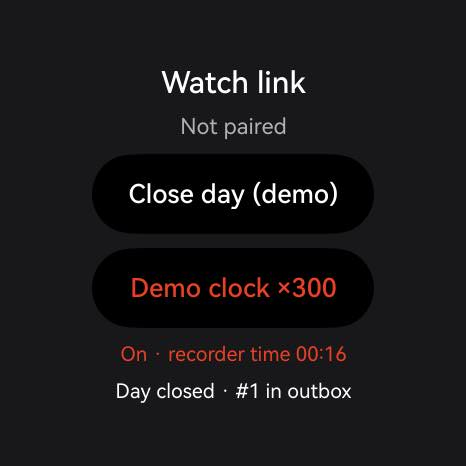
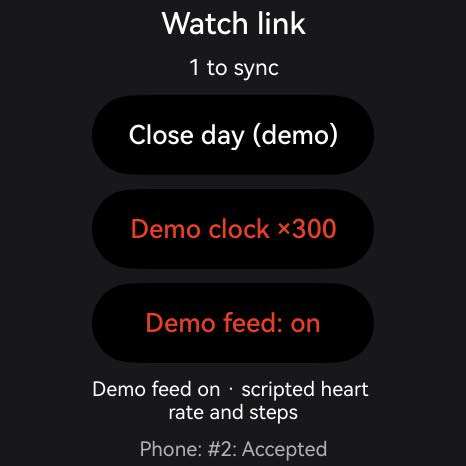
Watch Link: demo-feed run watch to phone on the common base, new screenshots, tour record
The tour branch now sits on feature/engine-reports 7213345 (fast-forward).
Four demo-feed days with the scripted 3 h break went watch -> relay -> phone,
with --tamper and --drop, and the tour checks ran on them. The watchlink
screenshots that read 'Worn 0 h 00 min' are replaced; tour-01..04 are new.
docs/WATCH_LINK.md: demo script with the feed, the run, stale ACK files after
Forget watch as a known limitation. No code change.

diff --git a/docs/WATCH_LINK.md b/docs/WATCH_LINK.md
@@ -175,11 +175,13 @@ The phone app reads its inbox when it comes to the foreground, every 2 s while i
 5. `Close day (demo)` again, relay with `--tamper` → phone log: `Invalid signature`, day not taken in. Relay again → `Accepted`.
 6. Close two more days, relay with `--drop 3` → phone: `1 day missing`, `#3 · not received`. Relay again → the gap is filled.
 
+**With the demo feed (no Virtual sensor panel).** Steps 2 to 4 become: watch, second page: `Demo clock ×300`, then `Demo feed: off` → `on`. The dial reads `DEMO ×300 · FEED · hh:mm`, heart rate and steps are scripted, and from 12:00 to 15:00 of recorder time (36 s) the ring turns red, `not on wrist`. The watch closes the day by itself at midnight of recorder time, 4 min 48 s after the previous one: `1 to sync` → relay → the phone shows the day with worn, charging and off-wrist time, steps and `Off wrist 12:05–15:00`. `Demo clock ×300` again stops the feed. Start from a fresh pair (see "Known limitations", stale ACK files) so the list holds feed days only.
+
 Line for the jury: "The watch measures, the phone judges with the same open rules, the insurer sees only a signed tier. Every day is signed on the wrist and chained, so a day can't be quietly deleted or edited."
 
 ## Checked on the emulators (2026-10-04, agent-run, not yet confirmed by a team member)
 
-Wearable emulator 127.0.0.1:5555 and phone emulator 127.0.0.1:5557, API 24, unsigned debug HAPs. Taps were sent with `uitest uiInput`.
+Wearable emulator 127.0.0.1:5555 and phone emulator 127.0.0.1:5557, API 24, unsigned debug HAPs. Taps were sent with `uitest uiInput`. The `watchlink-NN` files named below were re-shot in the demo-feed run described in the next section; the values in this list are those of the first run.
 
 - Watch: key `source=HUKS`; sensor ids without WEAR_DETECTION (280), so `HR_SIGNAL`; heart-rate events arrive with value 0, so the state is `not on wrist`.
 - Watch: `Demo clock ×300` → the ring fills (red, because the emulator's heart rate is 0), label `DEMO ×300 · hh:mm` (`watchlink-03`).
@@ -191,7 +193,34 @@ Wearable emulator 127.0.0.1:5555 and phone emulator 127.0.0.1:5557, API 24, unsi
 
 Not run on the emulators: a non-zero heart rate (worn, green ring, the 60 s limit with the real clock), a denied permission with the new dial, `Reset watch data`, `Forget watch`, an app restart of either side, a real midnight.
 
+## Checked on the emulators with the demo feed (2026-10-04 03:35–04:00 CEDT, agent-run, not yet confirmed by a team member)
+
+Same two emulators, unsigned debug HAPs built in the `feature/watch-link-tour` worktree: watch from `b9ce4b2`; phone from `b9ce4b2` for pairing (`watchlink-05`, `-07`) and from `7213345` (the engine build) from `watchlink-11` on. `watchlink-08` was taken while another session was installing its own engine build on the shared phone emulator, so its build is one of the two; the Watch link code is the same in all of them. Taps with `uitest uiInput`, values read from the layout dump and from the packets in the watch outbox.
+
+- Fresh start: `Forget watch` on the phone, `Reset watch data` on the watch, `Pair phone` → relay → `Pair watch fd7c02b2?` (`watchlink-07`) → `Confirm` → relay → `#0 ACCEPTED (Paired)` (`watchlink-05`, `watchlink-09`).
+- Watch: `Demo clock ×300` and `Demo feed: on` (`watchlink-02`, `watchlink-03`); dial `worn` with a scripted heart rate (`watchlink-01`), `not on wrist` during the scripted break (`watchlink-15`), the ring with the red break stretch during the workout hour (`watchlink-16`).
+- The watch sealed four days by itself, one every 4 min 48 s, without `Close day (demo)`: `1 to sync` (`watchlink-13`, `watchlink-04`), after the relay `Synced ✓` (`watchlink-10`). Every packet has `clock = DEMO_X300_FEED` and one break; packets 3 and 4 are 877 and 876 bytes.
+
+| day       | seq | worn        | charging   | off wrist  | not observed | steps  | break       | heart-rate slots in the 24 h before |
+| --------- | --- | ----------- | ---------- | ---------- | ------------ | ------ | ----------- | ----------------------------------- |
+| Sun 4 Oct | 1   | 10 h 25 min | 1 h 5 min  | 2 h 45 min | 9 h 45 min   | 7,626  | 12:10–14:55 | 27                                  |
+| Mon 5 Oct | 2   | 14 h 30 min | 6 h 35 min | 2 h 55 min | 0            | 12,068 | 12:05–15:00 | 171                                 |
+| Tue 6 Oct | 3   | 14 h 40 min | 6 h 30 min | 2 h 50 min | 0            | 12,138 | 12:10–15:00 | 171                                 |
+| Wed 7 Oct | 4   | 14 h 35 min | 6 h 30 min | 2 h 55 min | 0            | 12,119 | 12:05–15:00 | 172                                 |
+
+- The first day starts at 09:45 because the recorder started then; the hours before are `not observed`. The scripted break is 12:00–15:00 (3 h); the watch records it as 2 h 45 min to 2 h 55 min, because the wear rule waits for the last heart rate to go stale and a slot takes its majority state. `WatchLinkFeed.test.ets` allows exactly this range.
+- Phone, Evidence tab: day 1 `1 day verified` with worn, charging and off-wrist time, steps and `Off wrist 12:10–14:55` (`watchlink-08`); the full day 2 (`watchlink-17`).
+- `--tamper` on packet 2 → `#2 REJECTED (Invalid signature)`, sync log `#2 · Invalid signature`, still one day (`watchlink-11`); a clean run → `#2 ACCEPTED`.
+- `--drop 3` with packets 3 and 4 waiting → `#4 ACCEPTED (Accepted · Missing 1 day(s))`, `3 of 4 days verified`, `1 day never reached this phone`, a dashed `Missing` ring between Mon and Wed (`watchlink-12`); a clean run → `#3 ACCEPTED`, `All 4 days verified` (`watchlink-14`, `watchlink-18`).
+- Tour (`How Watch Link works` on the Watch link card): step 1 draws the slot timeline of the newest received day, `Wed 7 Oct · wear source: heart-rate signal`, with the demo-feed label (`tour-01`); `Show the code` opens the code panel (`tour-02`). The three checks ran on the received days (`tour-03`): `Change five minutes of one day` → `Invalid signature · Not taken in`; `Send the same day again` → `Duplicate day · Acknowledged again, counted once`; `Hold a day back` → `Accepted · Missing 1 day(s)`, then `Accepted · Fills the gap`; each reported 2 ms and `Your stored days were not changed`. After the checks the card still read `All 4 days verified` and `watchlink/days/` still held `1.json` to `4.json`. The last two cards are in `tour-04`.
+
+Not run: the tour in dark mode, the tour with no day received, the code panels of steps 2 to 6, `watchlink-06` (unchanged, the screen is the one in `watchlink-09`), Wear Engine on paired devices, a real heart rate.
+
+Seen during the run, not changed: on the watch's second page the title and the `Phone: #N` line sit at y = 24 and y = 449 of 466 when the demo feed is on, which a round screen cuts (`watchlink-04`).
+
 ## Known limitations
+
+- **`Forget watch` leaves the old ACK files.** `PhoneLinkEngine.forget()` clears the ledger, the days and the log, but not `acks/<seq>.json`. With the dev relay those files are carried to the watch on the next run: a watch that was reset and paired again then marks itself paired before the phone confirmed and shows `Phone: #7: Accepted`, and an old ACK with the seq of a packet still in the outbox would remove that packet unsent. The phone side is not affected: it pins the key only on `Confirm`. In the run above the old files were removed by hand (`hdc shell -b com.fairwear.app rm …/acks/<seq>.json`, and `_relay/` emptied) before pairing. Wear Engine sends ACKs as messages, so this concerns the relay only.
 
 - The watch records **while the app is open**. No continuous task is requested: none of the continuous-task types (data transfer, audio, location, Bluetooth, multi-device…) matches health logging, and the system suspends apps whose task type does not match what they do. Time in the background is `U`. In the product the full-day history comes from HUAWEI Health; the watch app adds signed wear evidence while it runs.
 - The demo clock shifts recorder time for good. After any demo time the recorder runs on `DEMO_OFFSET` and its packets are labelled as simulated time. `Reset watch data` returns to the real clock and starts a new chain; the phone then has to `Forget watch` and pair again.
